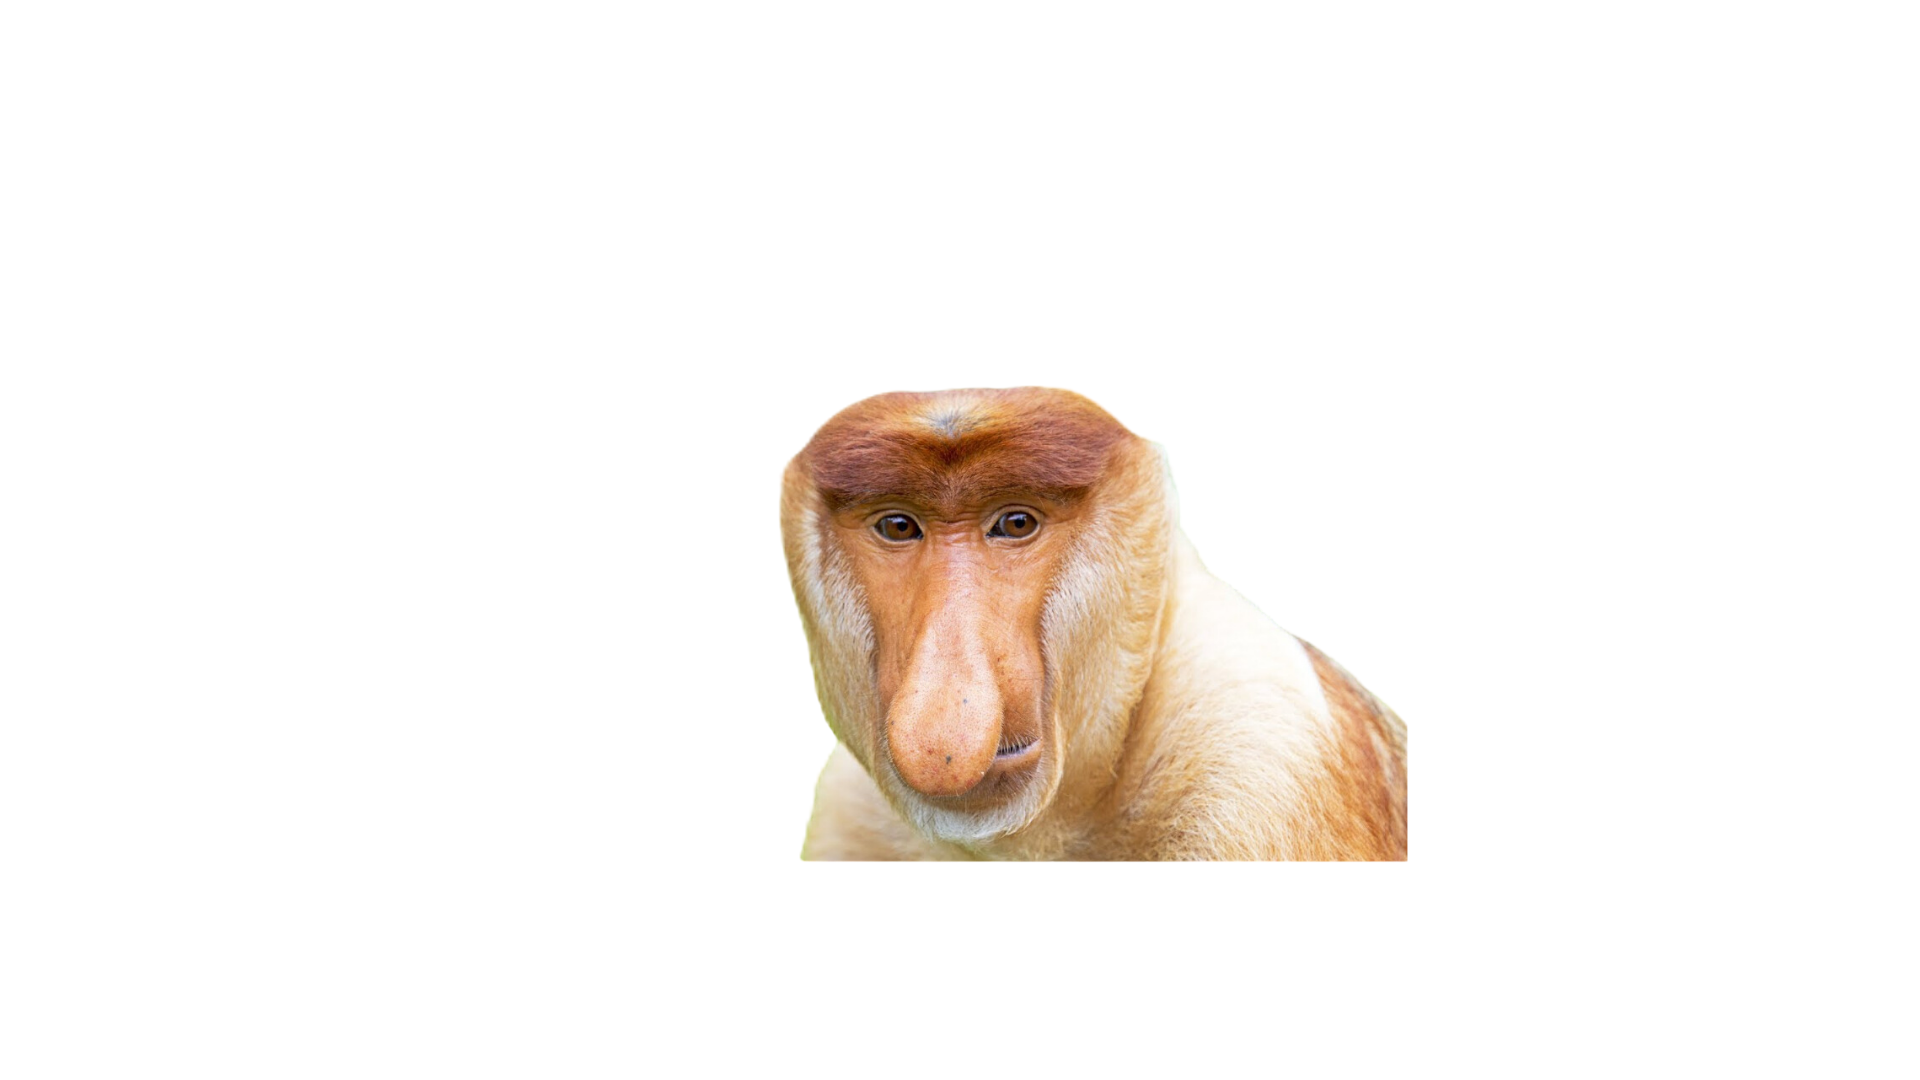
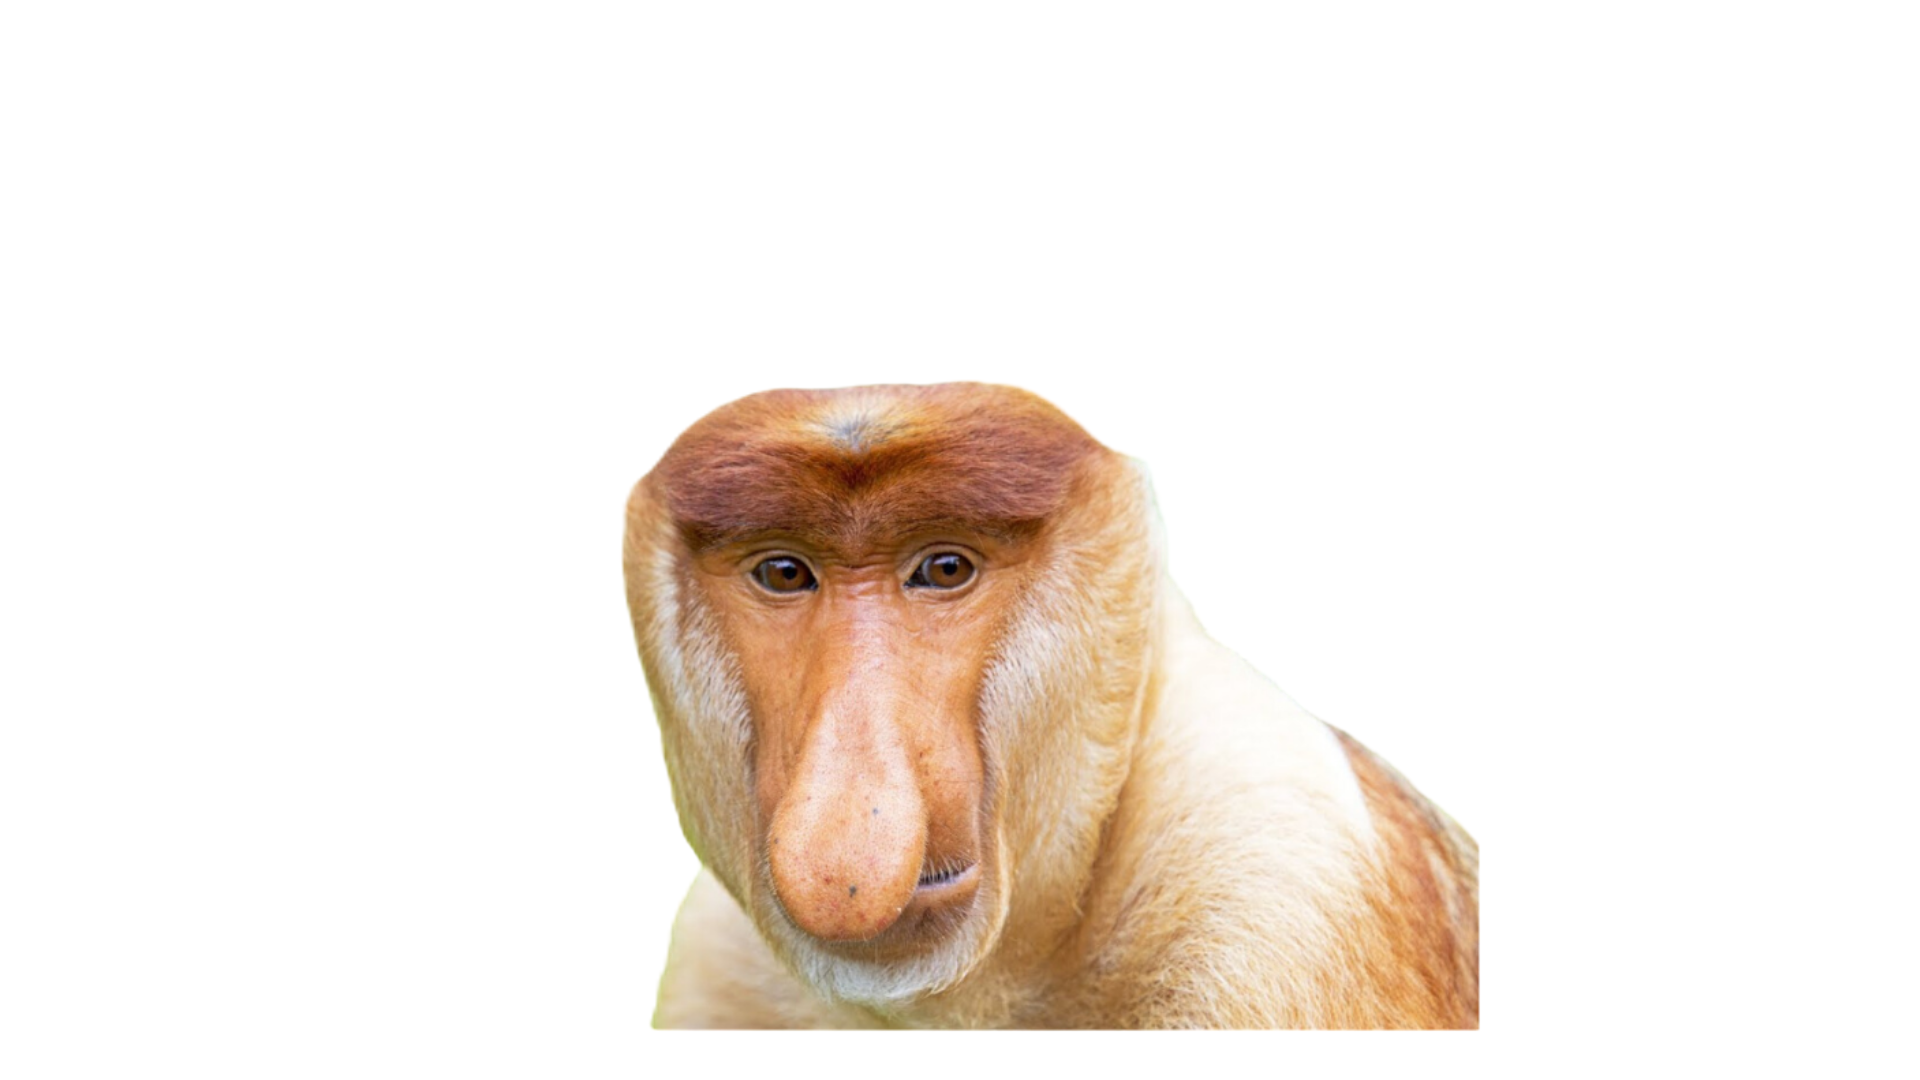
dsdjflsdf

Changed region(s): [[0.3125, 0.3361, 0.7812, 0.9778]]

diff --git a/hackathon-1-wcs/src/components/SelectBgLogo.jsx b/hackathon-1-wcs/src/components/SelectBgLogo.jsx
@@ -12,8 +12,6 @@ const motifs = [
   "/src/assets/motifs/hamster.png",
   "/src/assets/motifs/hang_santa.png",
   "/src/assets/motifs/hat-01.png",
-  "/src/assets/motifs/hat-02.png",
-  "/src/assets/motifs/hat-03.png",
   "/src/assets/motifs/hat.png",
   "/src/assets/motifs/loup.png",
   "/src/assets/motifs/panda.png",
@@ -33,7 +31,6 @@ const motifs = [
   "/src/assets/motifs/Punaise.png",
   "/src/assets/motifs/Punaiserun.png",
   "/src/assets/motifs/Blobfish.png",
-  "/src/assets/motifs/Mr. Props.png",
   "/src/assets/motifs/Benoit.png",
   "/src/assets/motifs/AnthoMalade.png",
   "/src/assets/motifs/BaptisteBlob.png",
@@ -94,8 +91,8 @@ const SweatCustom = ({ selectedImage, selectedPull }) => {
       image: imageObj,
       x: stage.width() / 2 - 200 / 2 + 220,
       y: stage.height() / 2 - 137 / 2 - 30,
-      width: 200,
-      height: 137,
+      width: 230,
+      height: 190,
       draggable: true,
     });
 

diff --git a/hackathon-1-wcs/src/components/selectBgLogo.css b/hackathon-1-wcs/src/components/selectBgLogo.css
@@ -18,6 +18,7 @@
 .Container img {
   object-fit: scale-down;
 }
+
 .img-selector {
   display: grid;
   grid-template-columns: repeat(11, 1fr);
@@ -63,7 +64,6 @@ canvas {
   text-align: center;
   margin-top: 30px;
   margin-bottom: 40px;
-
 }
 
 .sweat-custom-container {
@@ -96,22 +96,20 @@ canvas {
 .selected .motif {
   width: 100px;
   height: auto;
-  margin-right: 10px;
   cursor: pointer;
 }
 
 .motif {
   width: 100px;
   height: auto;
-  margin-right: 10px;
   cursor: pointer;
   border-radius: 5px;
+  margin: auto;
 }
 
 .pull {
   width: 100px;
   height: auto;
-  margin-right: 10px;
   cursor: pointer;
 }
 
